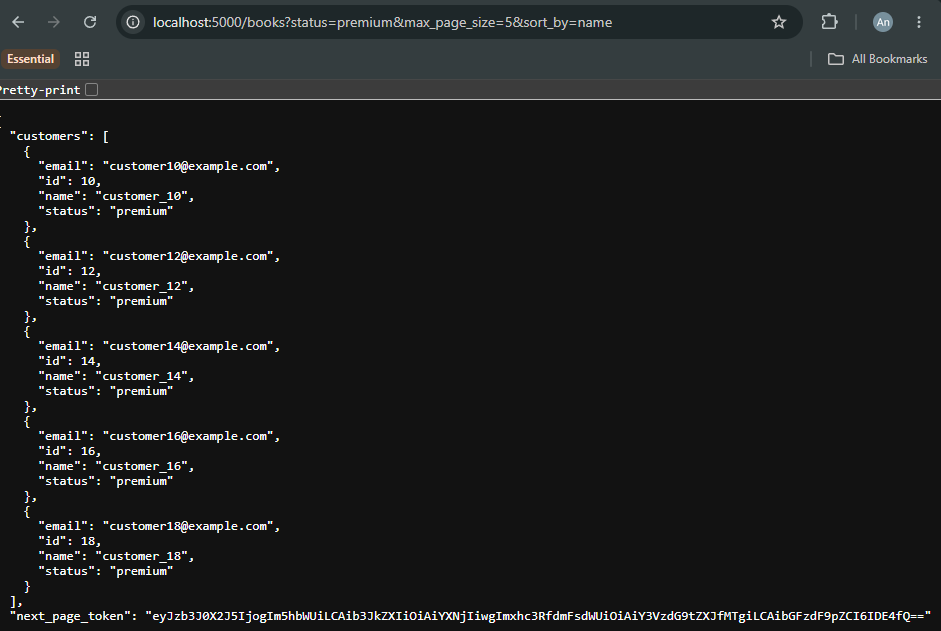
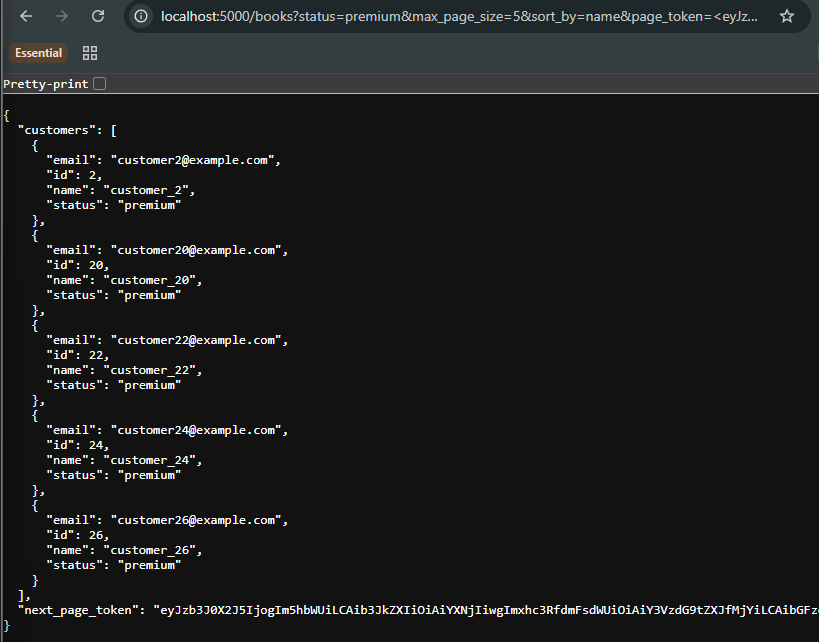
[Fix] Image viewing

Changed region(s): [[0.0, 0.0, 1.0, 0.542], [0.0, 0.5119, 1.0, 0.9937]]

diff --git a/week3/week3_readme.md b/week3/week3_readme.md
@@ -32,18 +32,18 @@ Sau khi chạy week3_lab3.py
 ** Cài đặt Cursors
 chạy lệnh: "curl "http://localhost:5000/books?maxPageSize=5"" 
 Trả về:
-![alt text](image.png)
+![alt text](/resoures/image.png)
 ** Cài đặt Filter
 Chạy lệnh: "curl "http://localhost:5000/books?status=premium&max_page_size=5"
 Trả về:
-![alt text](image_1.png)
+![alt text](/resoures/image_1.png)
 ** Cài đặt Sort
 Chạy lệnh "curl "http://localhost:5000/books?status=premium&max_page_size=5&sort_by=name" "
 Và "curl "http://localhost:5000/books?status=premium&max_page_size=5&sort_by=name&page_token=<token>" "
 Trả về: 
-![alt text](image.png)
-![alt text](image.png)
+![alt text](/resoures/image_2.png)
+![alt text](/resoures/image_3.png)
 ** Cài đặt sparse fields
 Chạy lệnh : "curl "http://localhost:5000/books?fields=id,name&max_page_size=3" "
 Trả về: 
-![alt text](image.png)
+![alt text](/resoures/image_4.png)
